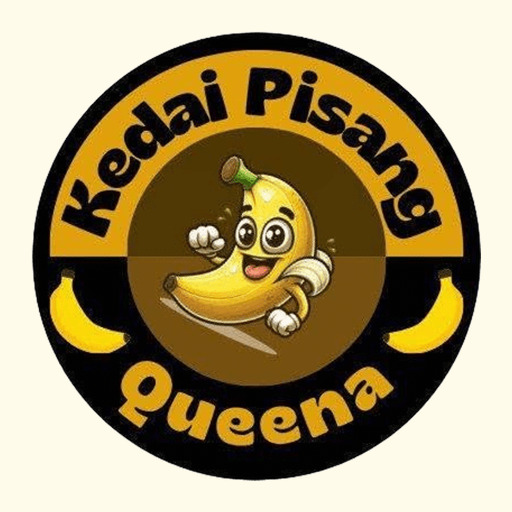
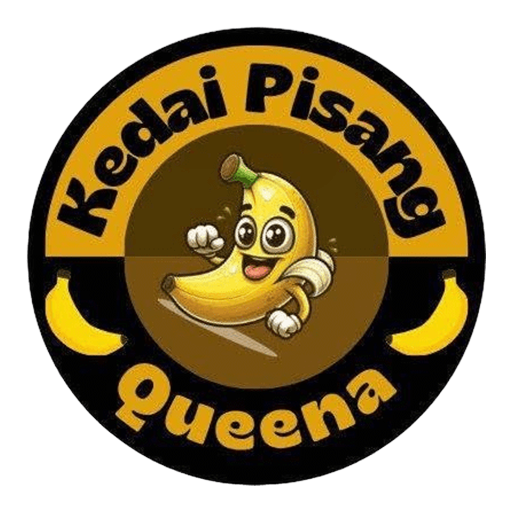
v1.6.4 ikon transparan

diff --git a/css/style.css b/css/style.css
@@ -78,13 +78,11 @@ label { display: block; font-size: 12px; font-weight: 700; color: var(--muted); 
 }
 .brand { display: flex; align-items: center; gap: 10px; min-width: 0; }
 .brand-logo {
-  width: 42px; height: 42px; border-radius: 12px;
-  background: rgba(255, 255, 255, .35);
+  width: 42px; height: 42px;
   display: flex; align-items: center; justify-content: center;
-  flex: none; overflow: hidden;
-  box-shadow: inset 0 1px 0 rgba(255,255,255,.4);
+  flex: none;
 }
-.brand-logo img { width: 100%; height: 100%; object-fit: cover; display: block; }
+.brand-logo img { width: 100%; height: 100%; object-fit: contain; display: block; filter: drop-shadow(0 1px 2px rgba(0,0,0,.15)); }
 .brand-text h1 {
   font-size: 15px; font-weight: 800; letter-spacing: .3px; line-height: 1.25;
   white-space: nowrap; overflow: hidden; text-overflow: ellipsis;

diff --git a/index.html b/index.html
@@ -170,7 +170,7 @@
         <p class="hint">Transaksi belum tersimpan (server offline): <b id="pendingCount">0</b></p>
       </div>
 
-      <p class="version">PISANG MADU QUEENA v1.6.3 · PWA + Google Apps Script + Spreadsheet</p>
+      <p class="version">PISANG MADU QUEENA v1.6.4 · PWA + Google Apps Script + Spreadsheet</p>
     </section>
   </main>
 

diff --git a/sw.js b/sw.js
@@ -4,7 +4,7 @@
    while offline). Setelah aplikasi dibuka sekali, tetap bisa
    dipakai saat internet mati (data terakhir di cache).
    ============================================================ */
-const CACHE = 'pisang-madu-queena-v34';
+const CACHE = 'pisang-madu-queena-v35';
 
 const ASSETS = [
   './',
